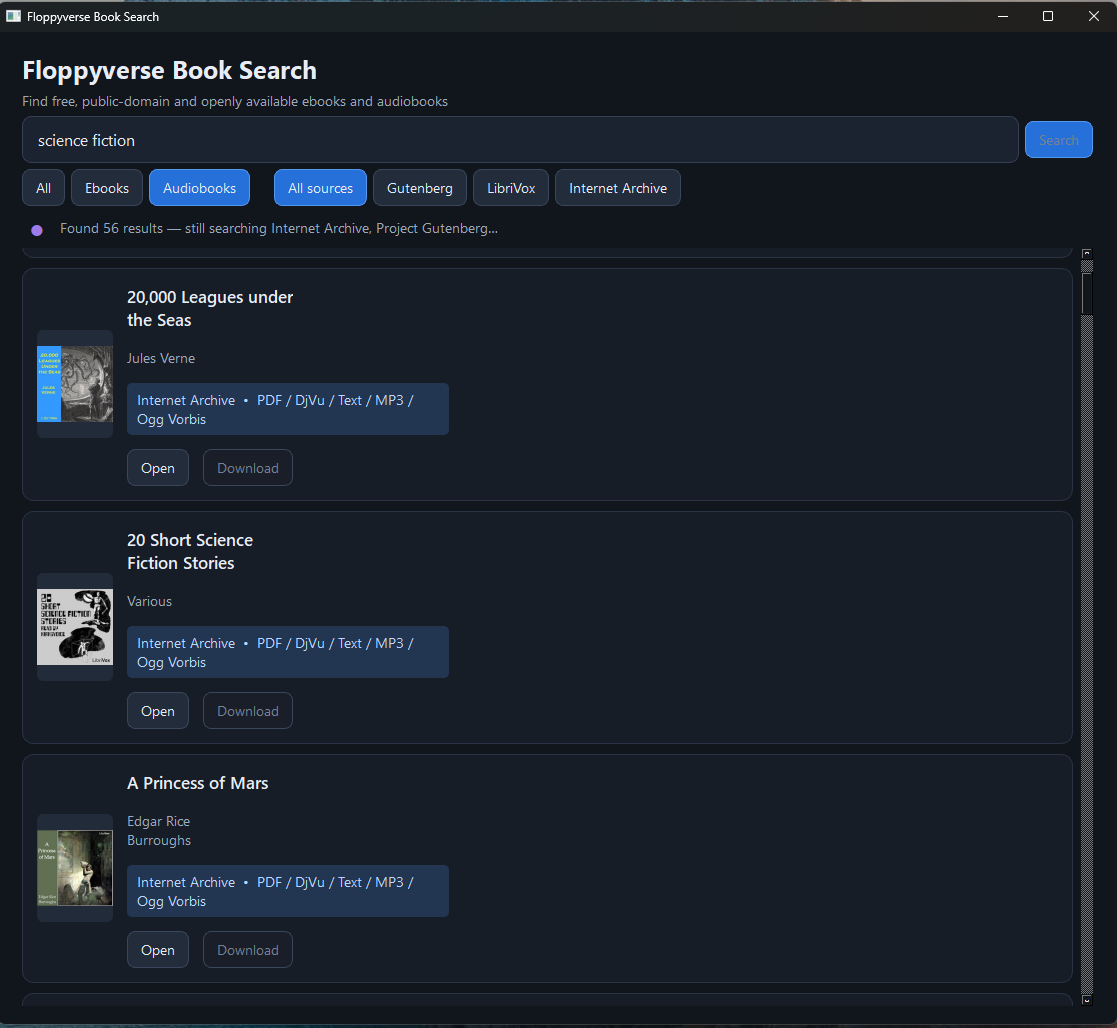
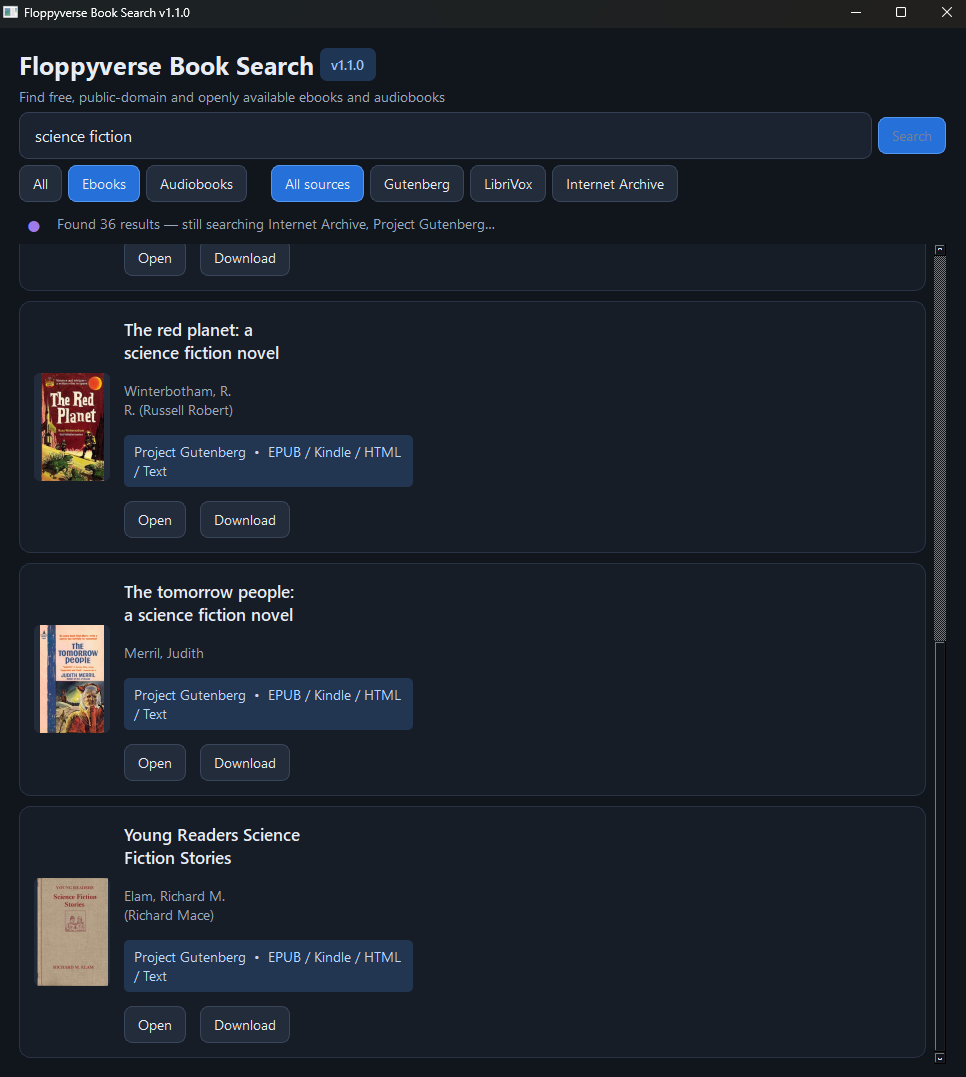
Release version 1.1.1 with updated screenshot

diff --git a/app/floppyverse/__init__.py b/app/floppyverse/__init__.py
@@ -1,3 +1,3 @@
 """Floppyverse Book Search."""
 
-__version__ = "1.1.0"
+__version__ = "1.1.1"

diff --git a/.github/README.md b/.github/README.md
@@ -4,7 +4,7 @@ Search free, public-domain, and openly available books from one friendly Windows
 
 Floppyverse searches multiple catalogs at the same time and presents ebooks and audiobooks in a clean, dark interface.
 
-**Current version: `v1.1.0`**
+**Current version: `v1.1.1`**
 
 ![Floppyverse Book Search showing audiobook results](assets/floppyverse-book-search.png)
 
